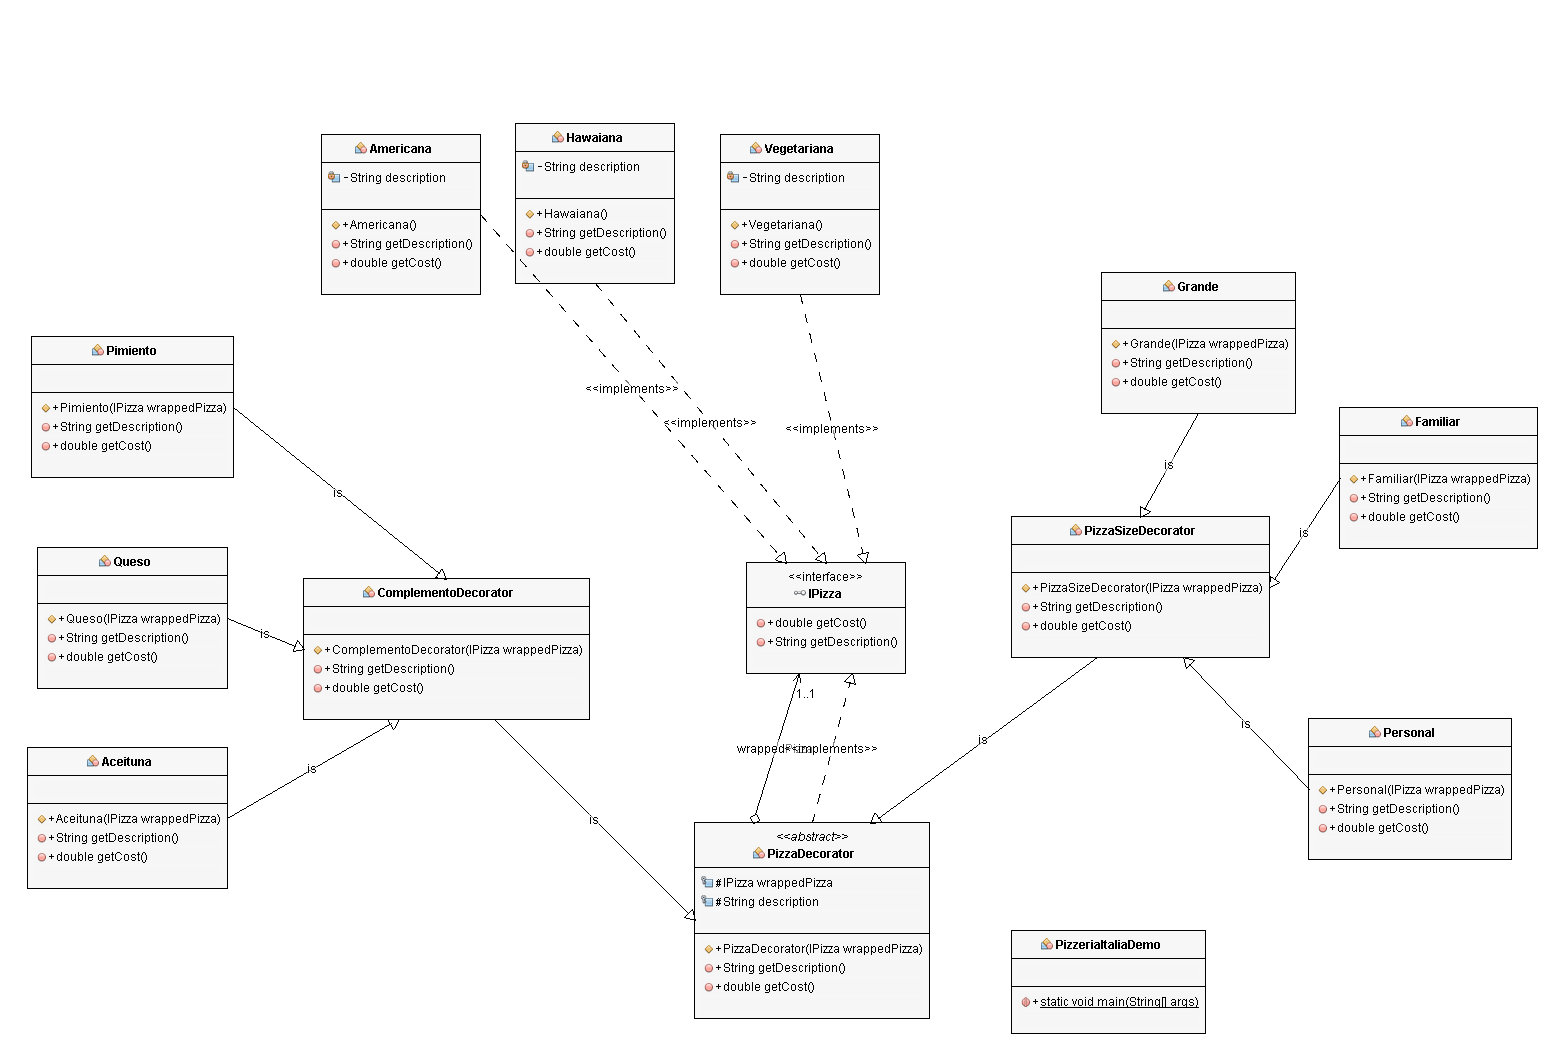
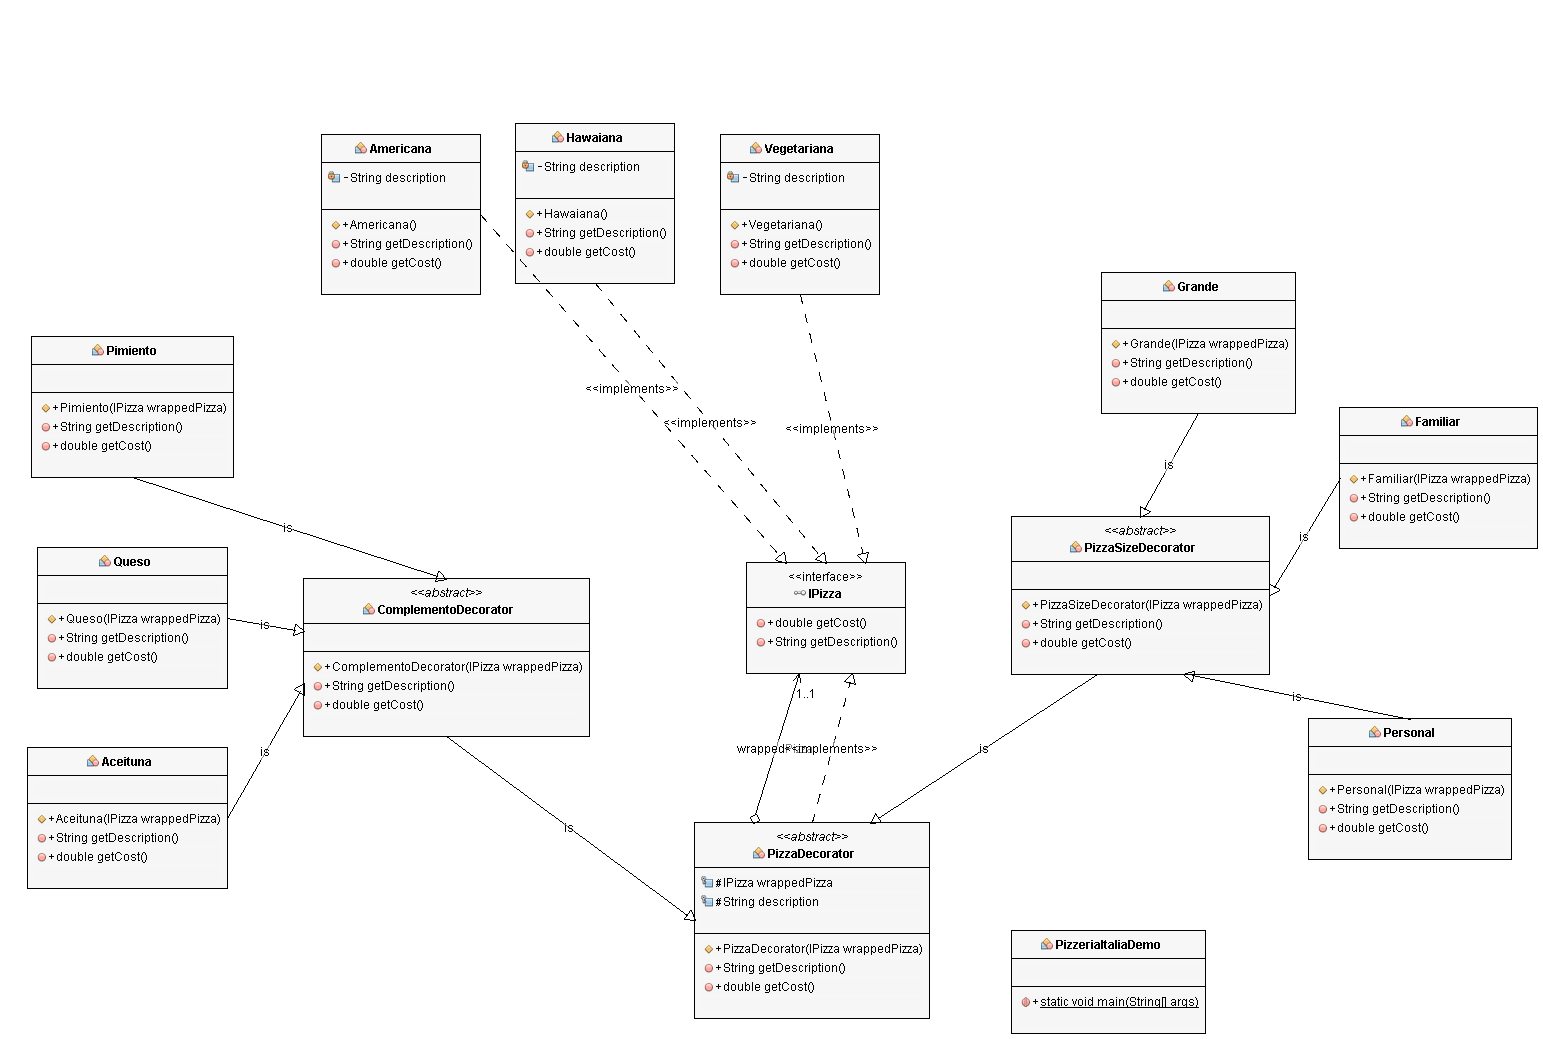
update: abstract class

Changed region(s): [[0.1866, 0.5544, 0.3733, 0.6776], [0.6533, 0.4928, 0.8088, 0.6468]]

diff --git a/Excercises/PDD/Pizzeria/Ejercicio2/ComplementoDecorator.java b/Excercises/PDD/Pizzeria/Ejercicio2/ComplementoDecorator.java
@@ -5,7 +5,7 @@ package Pizzeria.Ejercicio2;
  * @author Fernando Calmet
  * @homepage https://github.com/FernandoCalmet
  */
-public class ComplementoDecorator extends PizzaDecorator {
+public abstract class ComplementoDecorator extends PizzaDecorator {
     public ComplementoDecorator(IPizza wrappedPizza) {
         super(wrappedPizza);
     }

diff --git a/Excercises/PDD/Pizzeria/Ejercicio2/PizzaSizeDecorator.java b/Excercises/PDD/Pizzeria/Ejercicio2/PizzaSizeDecorator.java
@@ -5,7 +5,7 @@ package Pizzeria.Ejercicio2;
  * @author Fernando Calmet
  * @homepage https://github.com/FernandoCalmet
  */
-public class PizzaSizeDecorator extends PizzaDecorator {
+public abstract class PizzaSizeDecorator extends PizzaDecorator {
     public PizzaSizeDecorator(IPizza wrappedPizza) {
         super(wrappedPizza);
     }
